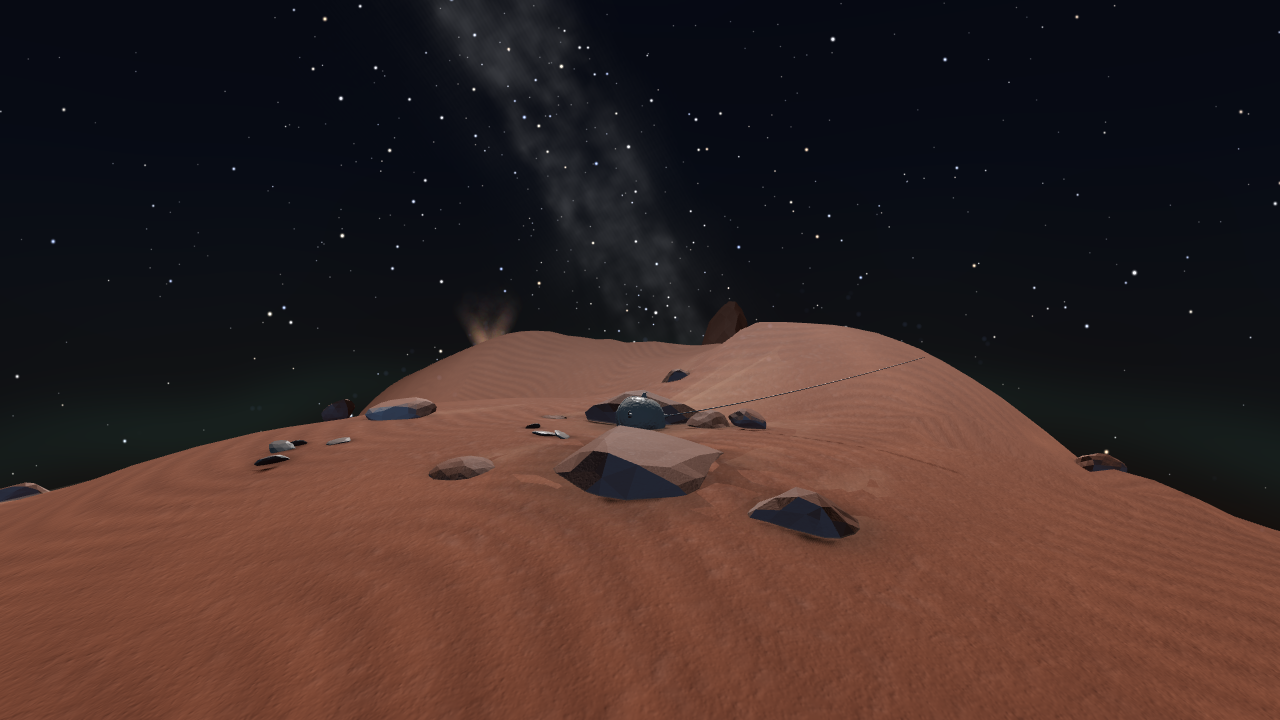
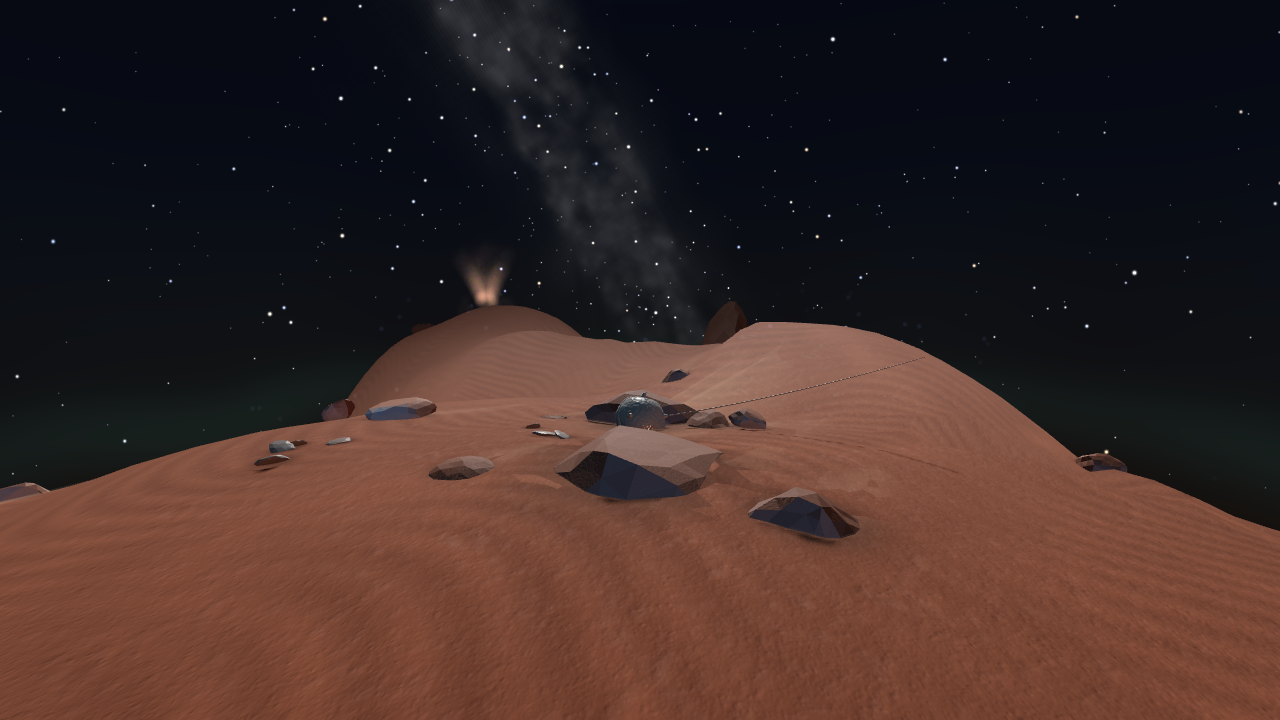
Der rote Halbmond leuchtet jetzt auch
Der Auftraggeber will den Planeten von allen Seiten beleuchtet haben. Das steht
in einer Spannung zur Grundregel des Auftrags — es bleibt Nacht — und die
Aufloesung stand schon am Himmel: Es gibt einen zweiten Mond, und der war
bisher nur ein Bild. Ein Koerper, der eine halbe Scheibe voll Sonnenlicht
zeigt, wirft welches zurueck.

Er bekommt eine gerichtete Quelle: 0,78 gegen 3,8 des weissen, in seiner
eigenen Farbe (0xd08a62), ohne Schattenwurf. Zwei Schattenkarten waeren zwei
Durchgaenge ueber 328 000 Dreiecke, und zwei Schattensaetze aus verschiedenen
Richtungen lesen in einer Nachtszene als Fehler, nicht als Licht.

Die abgewandte Seite ist damit kein Schwarz mehr, sondern eine zweite,
andersfarbige Nacht. Ueber die sechs mondlosen Stationen:

  Mittel          11,2-17,3  ->  17,1-20,0
  Tonwertspanne    9,2-33,0  ->  12,7-46,8

In der Totale ist die schwarze Haelfte verschwunden; der Koerper traegt
rundherum Form, kalt auf der einen und rostrot auf der anderen Seite.

Es bleibt Nacht: hellstes Bild des Rundgangs 93,8 von 255, dunkelstes 17,1.

Rundgang schliesst mit 1,30 cm, Konsole sauber, keine neue Geometrie und kein
zusaetzlicher Draw-Call.

Claude-Session: https://claude.ai/code/session_01KMMnbkFEYVpyFSS6udnGDT

diff --git a/src/environments.js b/src/environments.js
@@ -7444,6 +7444,37 @@ function createNightEnvironment() {
   mond2.renderOrder = 21;
   himmelGruppe.add(mond2);
 
+  // **Und er leuchtet.**
+  //
+  // Der Auftraggeber will den Planeten von allen Seiten beleuchtet haben. Das
+  // steht in einer Spannung zur Grundregel dieses Auftrags — „es bleibt Nacht,
+  // wer den Mond zur Sonne macht, hat die Aufgabe verfehlt" —, und die Auflösung
+  // steht schon am Himmel: Es gibt einen **zweiten** Mond, und der stand bisher
+  // als Bild da, ohne etwas zu tun. Ein Körper, der eine halbe Scheibe voll
+  // Sonnenlicht zeigt, wirft welches zurück.
+  //
+  // Damit ist die abgewandte Seite kein Schwarz mehr, sondern eine **zweite,
+  // andersfarbige Nacht** — rostrot statt blauweiß, ein Sechstel so hell, und
+  // aus der Gegenrichtung. Wer den Rundgang macht, läuft aus einem kalten Licht
+  // in ein warmes und wieder zurück.
+  //
+  // **Ohne Schattenwurf.** Zwei Schattenkarten wären zwei Durchgänge über
+  // 328 000 Dreiecke, und zwei Schattensätze aus verschiedenen Richtungen lesen
+  // in einer Nachtszene als Fehler, nicht als Licht. Die eine gerichtete Quelle
+  // mit Schatten bleibt der Mond; dies hier ist Fülllicht mit einer Richtung.
+  const mond2Licht = new THREE.DirectionalLight(0xd08a62, 0.78);
+  mond2Licht.position.copy(MOND2_RICHTUNG).multiplyScalar(MOND_FERN);
+  // **Ein eigenes Ziel, kein geteiltes.** `moonLight` entsteht erst hundert
+  // Zeilen weiter unten; ein Verweis darauf liefe hier in die zeitliche
+  // Totzone. Das Ziel muss ohnehin dasselbe **sein**, nicht dasselbe Objekt:
+  // der Planetenmittelpunkt, und der liegt im Ursprung der Umgebungsgruppe —
+  // die dreht sich nicht mit, das Ziel bleibt also stehen, während die Quelle
+  // in der Himmelsgruppe mitwandert.
+  mond2Licht.target.position.set(0, 0, 0);
+  group.add(mond2Licht.target);
+  mond2Licht.castShadow = false;
+  himmelGruppe.add(mond2Licht);
+
   // --- Licht -----------------------------------------------------------------
   //
   // **Der Befund, der dieses Paket ausgelöst hat.** `main.js` hält eine globale

diff --git a/prompts/nachthimmel-log.md b/prompts/nachthimmel-log.md
@@ -2700,6 +2700,38 @@ Regression: Zen bitgleich, Konstrukt Δmax 1, Dojo Δmax 5 bei 0,008 %, Insel
 * Der Prüfer hat den Sputnik noch nie gesehen; sein Bericht ist von vor seinem
   Einbau.
 
+### „Von allen Seiten beleuchtet" — ohne den Mond zur Sonne zu machen
+
+Der Auftraggeber will den Planeten von allen Seiten beleuchtet haben. Das steht
+in einer Spannung zur Grundregel dieses Auftrags — *„Es bleibt Nacht. Wer den
+Mond zur Sonne macht, hat die Aufgabe verfehlt."* — und die Auflösung stand
+schon am Himmel, seit einem Durchlauf, ohne dass ich sie benutzt hätte: **Es
+gibt einen zweiten Mond.** Er stand als Bild da und tat nichts. Ein Körper, der
+eine halbe Scheibe voll Sonnenlicht zeigt, wirft welches zurück.
+
+Der rote Halbmond bekommt deshalb eine gerichtete Quelle: 0,78 gegen 3,8 des
+weißen, in seiner eigenen Farbe (0xd08a62), **ohne Schattenwurf**. Zwei
+Schattenkarten wären zwei Durchgänge über 328 000 Dreiecke, und zwei
+Schattensätze aus verschiedenen Richtungen lesen in einer Nachtszene als Fehler,
+nicht als Licht. Die eine gerichtete Quelle mit Schatten bleibt der Mond; dies
+ist Fülllicht mit einer Richtung.
+
+Damit ist die abgewandte Seite kein Schwarz mehr, sondern eine **zweite,
+andersfarbige Nacht**. Wer den Rundgang macht, läuft aus einem kalten Licht in
+ein warmes und wieder zurück. Über die sechs mondlosen Stationen:
+
+| | Mittel | Tonwertspanne |
+| --- | --- | --- |
+| vor dem zweiten Licht | 11,2 – 17,3 | 9,2 – 33,0 |
+| jetzt | **17,1 – 20,0** | **12,7 – 46,8** |
+
+In der Totale `d-orbit` ist die schwarze Hälfte verschwunden: Der Körper trägt
+jetzt rundherum Form, kalt auf der einen und rostrot auf der anderen Seite.
+
+**Es bleibt Nacht.** Das hellste Bild des Rundgangs steht bei einem Mittel von
+93,8 von 255, das dunkelste bei 17,1. Der zweite Mond ist ein Sechstel so stark
+wie der erste und leuchtet aus der Gegenrichtung — er ist ein Mond, keine Sonne.
+
 ### Die Lehren dieser Runde
 
 * **Eine API-Zahl, deren Bedeutung man zu kennen glaubt, gehört nachgezählt.**
